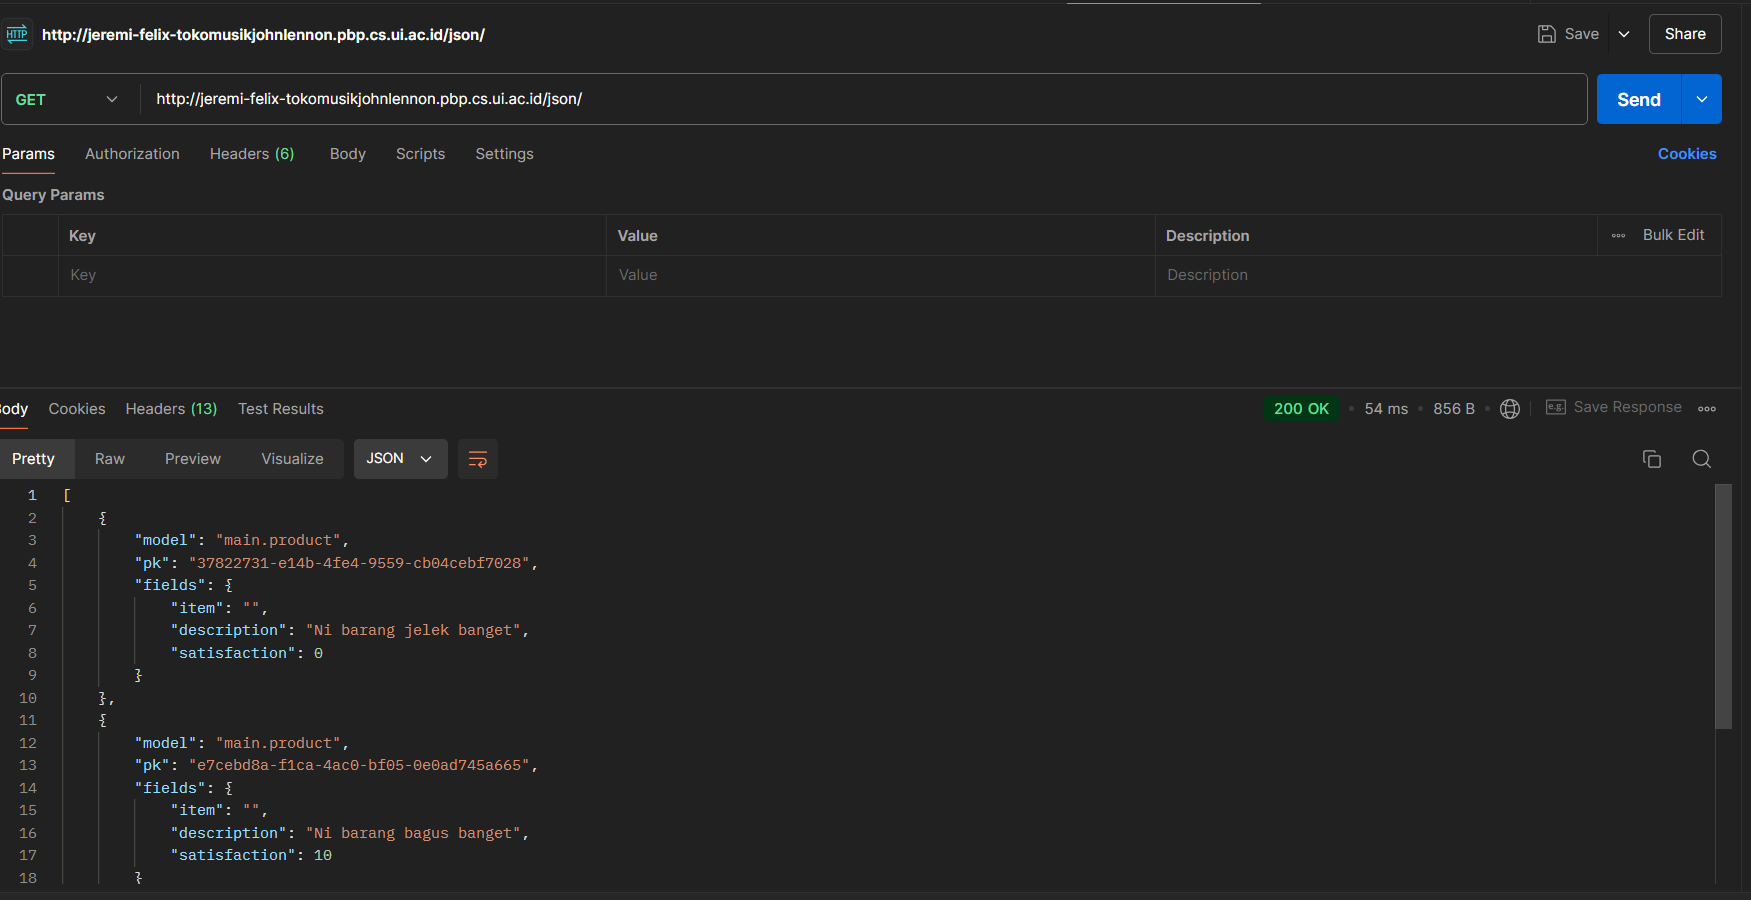
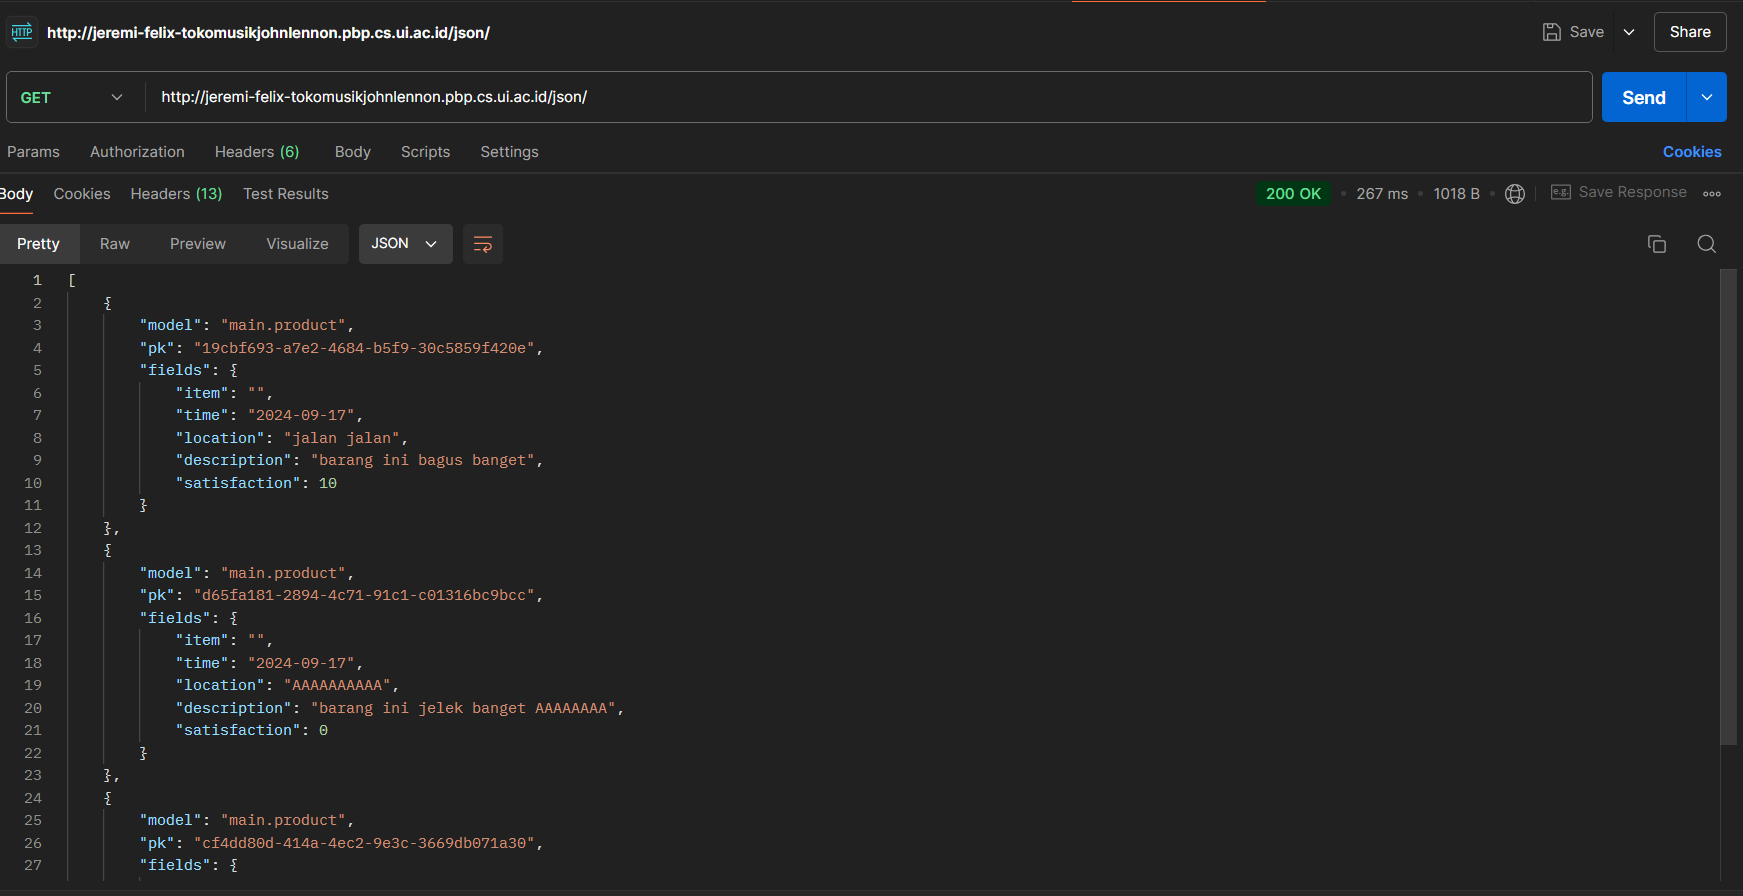
perubahan pada readme

diff --git a/README.MD b/README.MD
@@ -192,11 +192,13 @@ Model dalam Django disebut sebagai ORM (Object-Relational Mapping) karena fungsi
 5. Mengubah models.py menjadi
 ```py
 from django.db import models
-import uuid 
+import uuid
 
 class Product(models.Model):
     id = models.UUIDField(primary_key=True, default=uuid.uuid4, editable=False) 
     item = models.CharField(max_length=255)
+    time = models.DateField(auto_now_add=True)
+    location = models.TextField()
     description = models.TextField()
     satisfaction = models.IntegerField()
 ```
@@ -210,7 +212,7 @@ from main.models import Product
 class ProductEntryForm(ModelForm):
     class Meta:
         model = Product
-        fields = ["description", "satisfaction"]
+        fields = ["description", "location", "satisfaction"]
 ```
 8. menambahkan bagian import di views.py:
 ```python
@@ -271,6 +273,11 @@ serta menambahkan style
 ```html
 
 <!-- Main Content -->
+<nav>
+    <h3>by {{name}}, {{npm}}, kelas {{kelas}}</h3>
+</nav>
+
+<!-- Main Content -->
 <main>
     <!-- Information Section -->
     <div class="info-section">
@@ -297,7 +304,37 @@ serta menambahkan style
             <img src="https://th.bing.com/th/id/OIP.lg-tJiwtguygoc9yapGMAQHaEW?pid=ImgDetMain" alt="Guitar Image">
         </div>
     </div>
+    {% if not product_entries %}
+    <p>Belum ada review dari produk ini.</p>
+    {% else %}
+    <table>
+        <tr>
+            <th>time</th>
+            <th>location</th>
+            <th>description</th>
+            <th>satisfaction</th>
+        </tr>
+
+    {% comment %} Berikut cara memperlihatkan data mood di bawah baris ini 
+    {% endcomment %} 
+        {% for product_entry in product_entries %}
+        <tr>
+            <td>{{product_entry.time}}</td>
+            <td>{{product_entry.location}}</td>
+            <td>{{product_entry.description}}</td>
+            <td>{{product_entry.satisfaction}}</td>
+        </tr>
+        {% endfor %}
+    </table>
+    {% endif %}
 </main>
+
+<!-- Footer -->
+<footer>
+    <p>Contact us at johnlennonmusic@gmail.com</p>
+</footer>
+
+{% endblock content %}
 ...
 ```
 13. menambah design dengan menambah <styles> di main.html
@@ -345,6 +382,65 @@ kemudian membuka http://localhost:8000/
 
 ```
 di browser
+16. membuat direktori .github dan workflows di dalamnya
+17. membuat file deploy.yml dan mengisi nya dengan:
+    ```yml
+    name: Push to PWS
+
+    on:
+    push:
+        branches: [ main ]
+        paths-ignore:
+            - '**.md'
+    pull_request:
+        branches: [ main ]
+        paths-ignore:
+            - '**.md'
+
+    jobs:
+    build-and-push:
+        runs-on: ubuntu-latest
+
+        steps:
+        - name: Checkout code
+        uses: actions/checkout@v2
+        with:
+            fetch-depth: 0
+
+        - name: Set up Git
+        run: |
+            git config --global user.name 'github-actions[bot]'
+            git config --global user.email 'github-actions[bot]@users.noreply.github.com'
+
+        - name: Check PWS remote, pull, merge, and push
+        env:
+            PWS_URL: ${{ secrets.PWS_URL }}
+        run: |
+            # Check if master branch exists locally
+            if ! git show-ref --verify --quiet refs/heads/master; then
+                echo "Creating master branch"
+                git branch master
+            fi
+            
+            # Switch to master branch
+            git checkout master
+
+            # Push to master branch and capture the output
+            push_output=$(git push $PWS_URL main:master 2>&1)
+            if [[ $? -ne 0 ]]; then
+                echo "Push failed with output: $push_output"
+                echo "Error: Unable to push changes. Please check the error message above and resolve any conflicts manually."
+                exit 1
+            fi
+            echo "Push successful with output: $push_output"
+
+    ```
+18. menambah settings.py dengan:
+```py
+CSRF_TRUSTED_ORIGINS = ["http://localhost","http://127.0.0.1","http://jeremi-felix-tokomusikjohnlennon.pbp.cs.ui.ac.id", "http://jeremi-felix-tokomusikjohnlennon.pbp.cs.ui.ac.id"]
+
+```
+19. push ke github
 
 ### Jawaban dari pertanyaan
 
